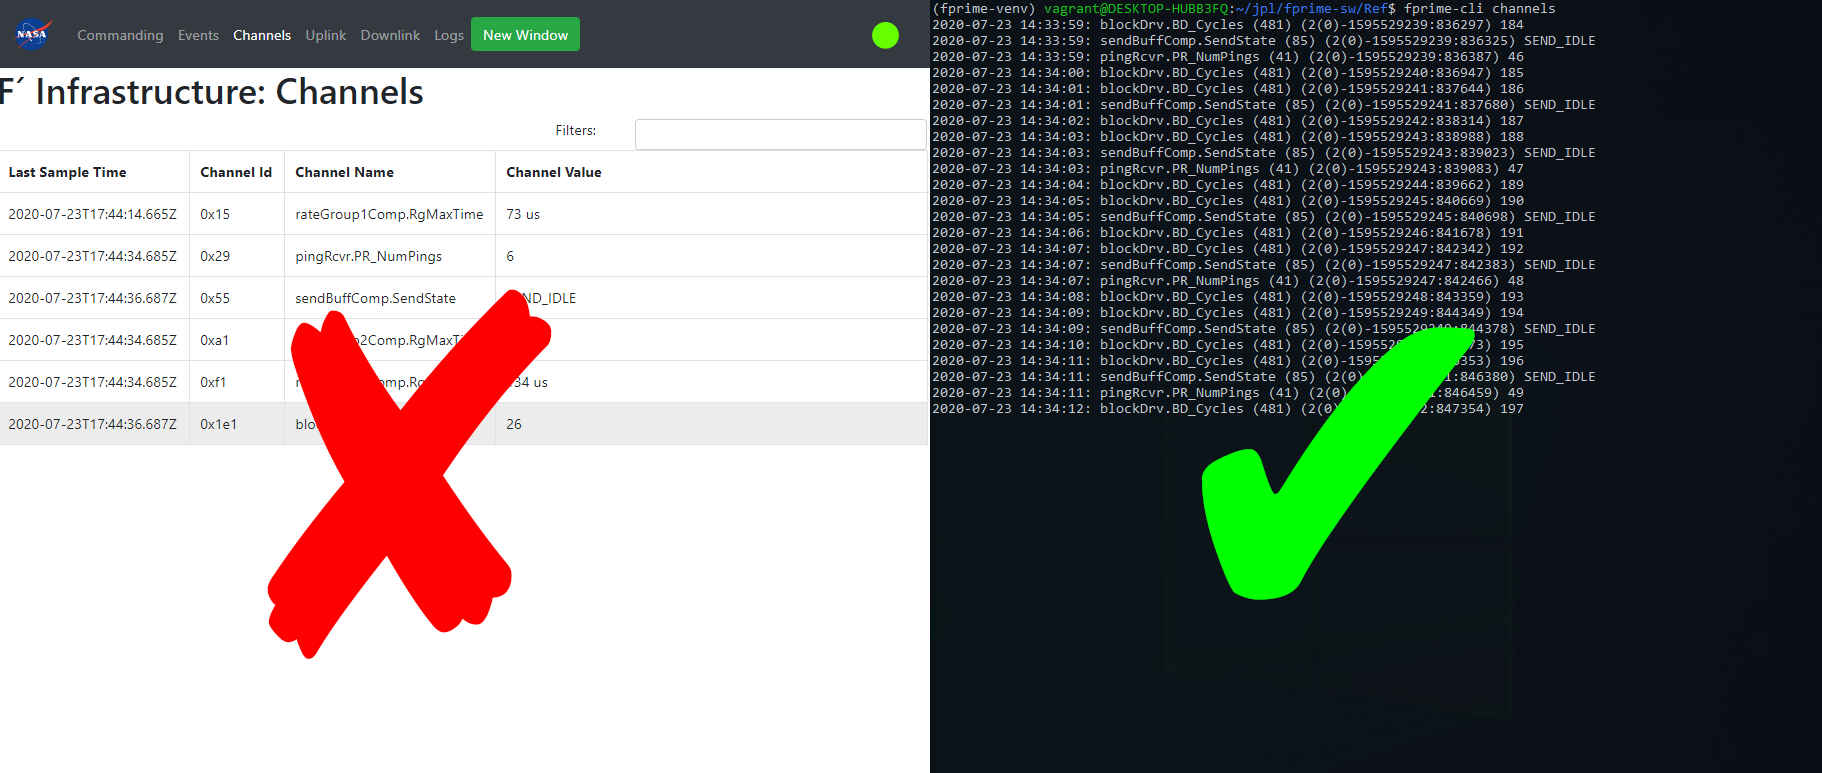
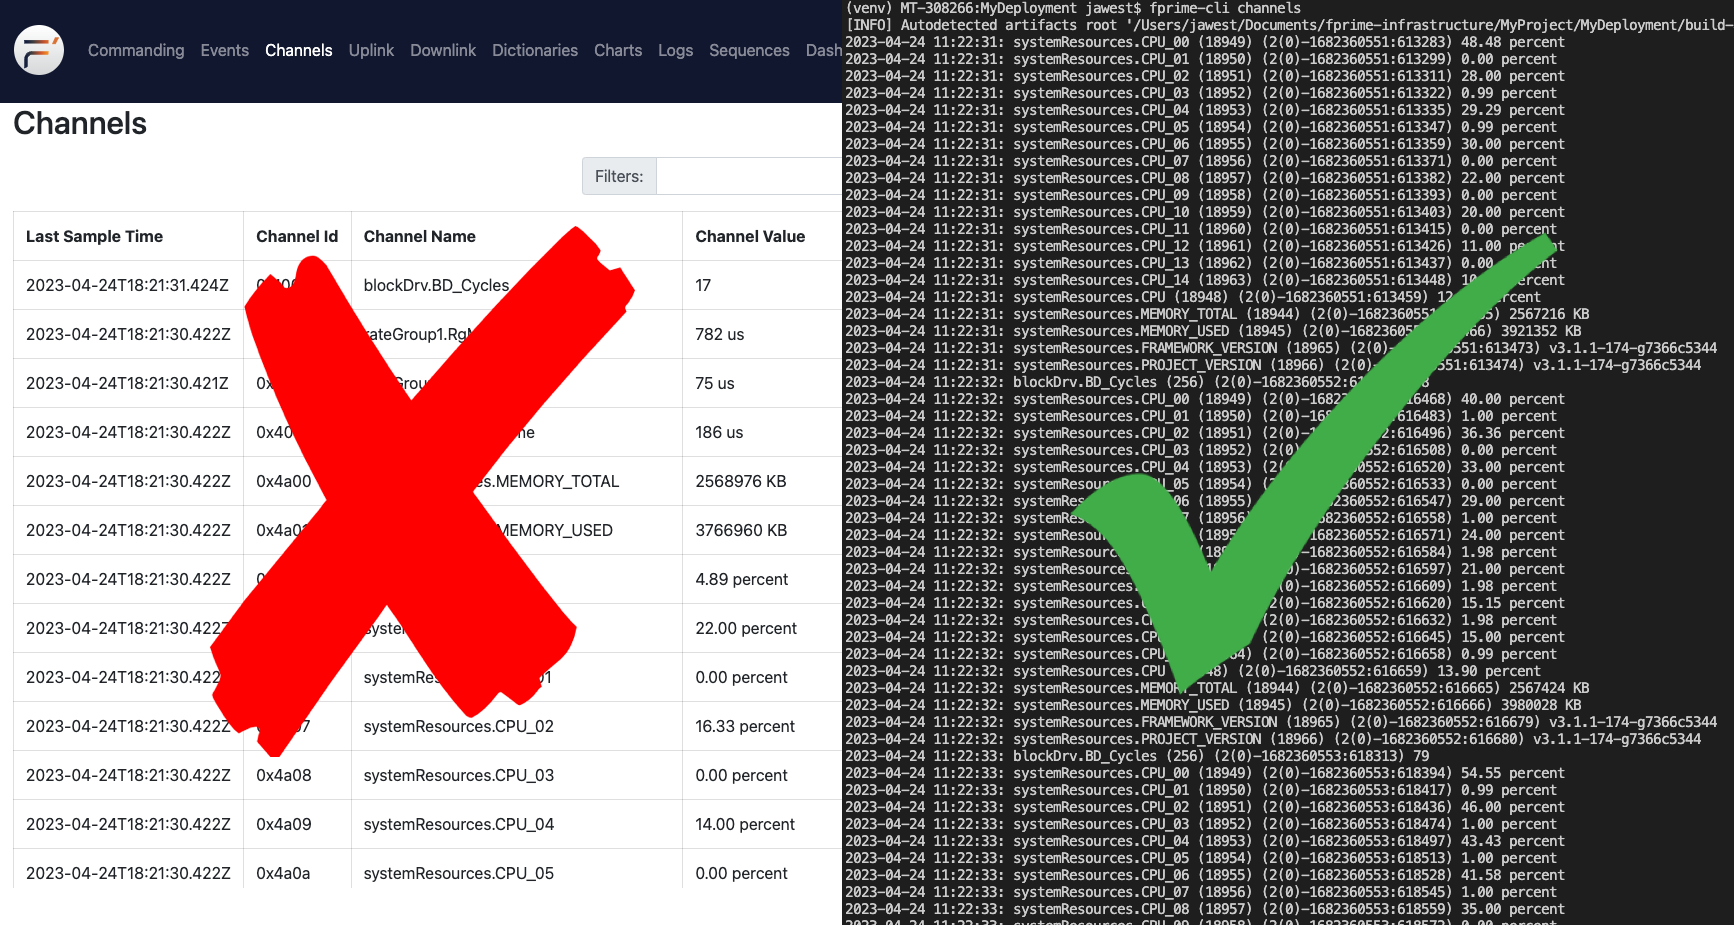
more screenshots

diff --git a/docs/UsersGuide/gds/gds-introduction.md b/docs/UsersGuide/gds/gds-introduction.md
@@ -5,16 +5,17 @@ systems. It was designed for projects that have not already chosen a GDS, for de
 project's GDS is fully online, and for integration testers who wish to automate tests against F´ software. This guide
 will give you a quick introduction to what the F´ GDS is and how you can use it.
 
-- [What is the GDS?](#what-is-the-gds)
-- [Getting Started](#getting-started)
+- [A Brief Guide to the F´ Ground Data System](#a-brief-guide-to-the-f-ground-data-system)
+  - [What is the GDS?](#what-is-the-gds)
+  - [Getting Started](#getting-started)
     - [Running the GDS](#running-the-gds)
-- [GDS Options](#gds-options)
+  - [GDS Options](#gds-options)
     - [Specify the Deployment or Dictionary](#specify-the-deployment-or-dictionary)
     - [Disable Automatic Flight Software Execution](#disable-automatic-flight-software-execution)
     - [Specify GDS Addresses and Ports](#specify-gds-addresses-and-ports)
     - [Run the GDS Without a UI](#run-the-gds-without-a-ui)
     - [Help and Other Options](#help-and-other-options)
-- [Navigating the GDS GUI](#navigating-the-gds-gui)
+  - [Navigating the GDS GUI](#navigating-the-gds-gui)
     - [Commanding](#commanding)
     - [Events](#events)
     - [Channels](#channels)
@@ -22,7 +23,7 @@ will give you a quick introduction to what the F´ GDS is and how you can use it
     - [Downlink](#downlink)
     - [Logs](#logs)
     - [Dashboard](#dashboard)
-- [Conclusion](#conclusion)
+  - [Conclusion](#conclusion)
 
 ![GDS Image](../media/gds_gui_events.png)
 
@@ -208,8 +209,7 @@ disconnected and not sending/receiving any data. This is reset to an X via timeo
 timeout in the `config.js` file.  This widget is fondly referred to as "the orb" as it quickly shows if there is data
 flow from the embedded F´ system.
 
-There's also a NASA logo on the far left. It doesn't do anything right now, but hopefully, the meatball continues to
-inspire our users. This logo is also configurable in `config.js`.
+There's also an F´ logo on the far left, which is configurable in `config.js`.
 
 The tabs across the top perform most of the functionality of the GDS. What do the tabs contain? Do they contain things?
 Let's find out!
